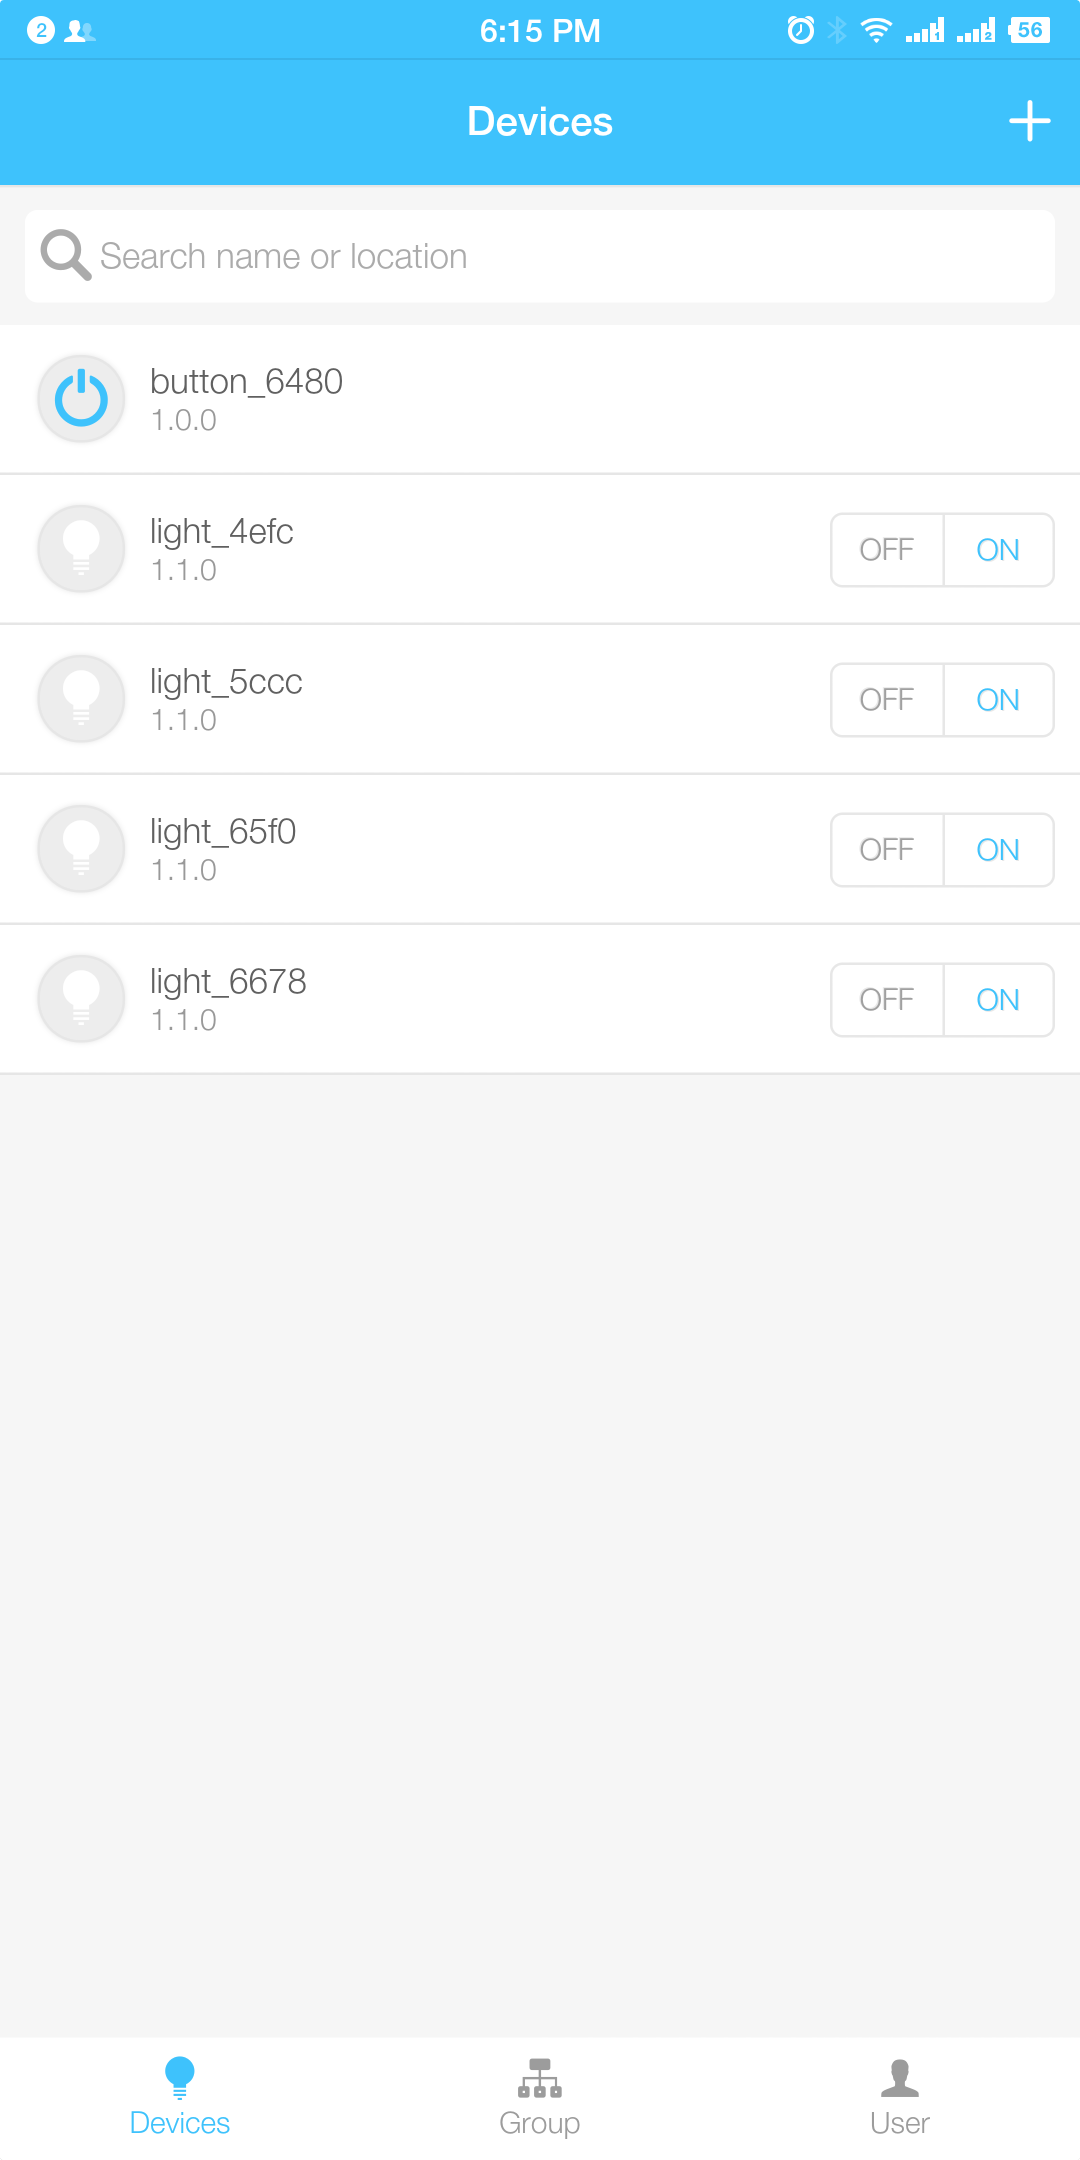
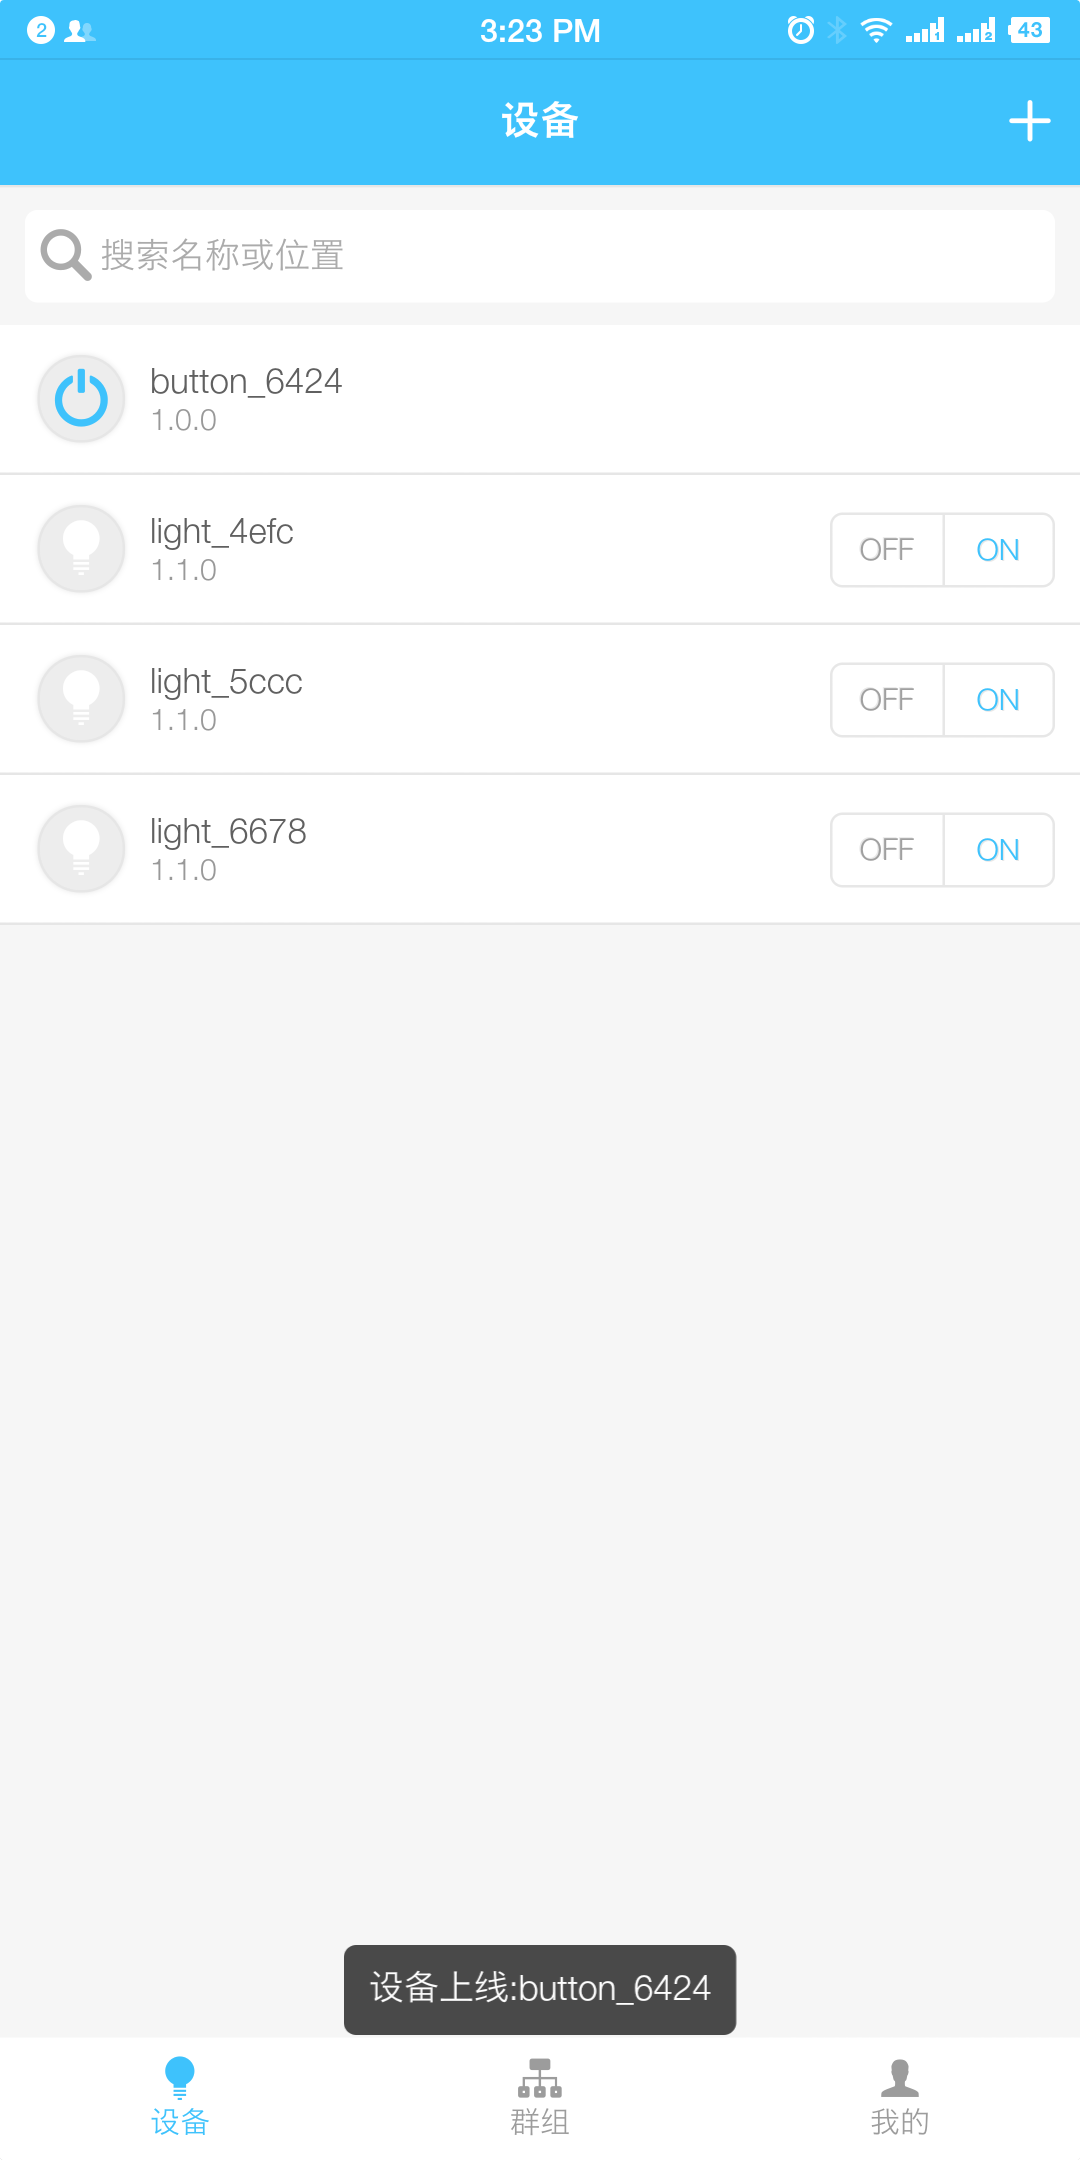
add 2 images

diff --git a/SmartLighting/lumismart/README.md b/SmartLighting/lumismart/README.md
@@ -138,8 +138,8 @@ Go to the list of added devices and do the following:
 
     <table>
         <tr>
-            <td ><img src="docs/_static/zh_CN/light_control.png" width="300"><p align=center>Light control interface</p></td>
-            <td ><img src="docs/_static/zh_CN/button_control.png" width="300"><p align=center>Button control interface</p></td>
+            <td ><img src="docs/_static/en/light_control.png" width="300"><p align=center>Light control interface</p></td>
+            <td ><img src="docs/_static/en/button_control.png" width="300"><p align=center>Button control interface</p></td>
         </tr>
    </table>
 
@@ -174,7 +174,7 @@ Go to the list of added devices and do the following:
             <td ><img src="docs/_static/en/add_group.png" width="300"><p align=center>Add a group</p></td>
             <td ><img src="docs/_static/en/group_name.png" width="300"><p align=center>Edit the group name</p></td>
         </tr>
-   </table>
+    </table>
 
 ### 5. User Tab
 
